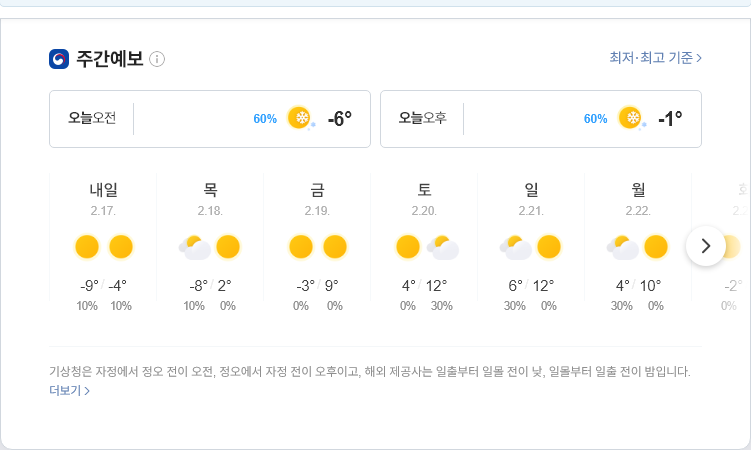
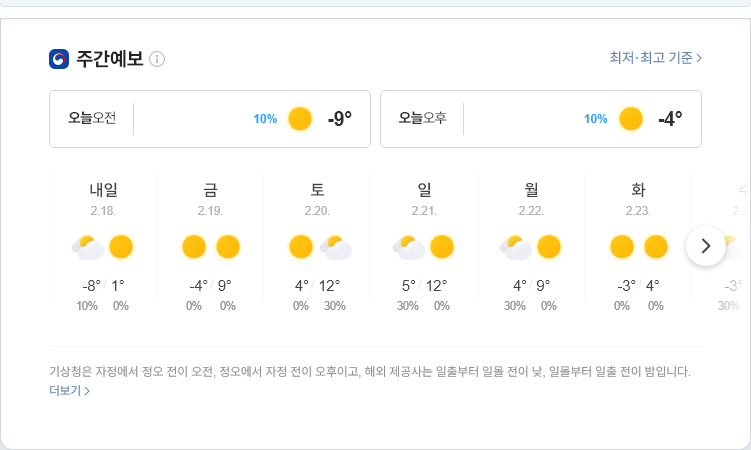
update result

diff --git a/README.md b/README.md
@@ -1,5 +1,5 @@
-##  2021-02-16 16:02:47   화요일 
-##### 날씨   -   어제보다 1° 낮아요맑음  
+##  2021-02-17 05:54:33   수요일 
+##### 날씨   -   어제보다 2° 낮아요맑음  
 <center><img src="../img/naver_weather_week.png"></center>
 ----
 ----
@@ -13,17 +13,17 @@
 ##### 세계
 <table border="1" bordercolor="blue" align = "center" >
 <tr align = "right" > <td>Item</td><td>Point</td><td>Diff</td><td>Rate</td><td>Buy</td><td>Sell</td><td>...</td>  </tr>
-<tr align = "right" > <td>DOW</td><td>31,458.4</td><td>27.7</td><td><font size="3" color="red" >0.09%</font></td><td><font size="3" color="black">0</font></td><td><font size="3" color="black">0</font></td><td>0</td>  </tr>
-<tr align = "right" > <td>NASDAQ</td><td>14,095.47</td><td>69.7</td><td><font size="3" color="red" >0.5%</font></td><td><font size="3" color="black">0</font></td><td><font size="3" color="black">0</font></td><td>0</td>  </tr>
-<tr align = "right" > <td>S&P</td><td>3,934.83</td><td>18.45</td><td><font size="3" color="red" >0.47%</font></td><td><font size="3" color="black">0</font></td><td><font size="3" color="black">0</font></td><td>0</td>  </tr>
+<tr align = "right" > <td>DOW</td><td>31,526.54</td><td>68.14</td><td><font size="3" color="red" >0.22%</font></td><td><font size="3" color="black">0</font></td><td><font size="3" color="black">0</font></td><td>0</td>  </tr>
+<tr align = "right" > <td>NASDAQ</td><td>14,052.24</td><td>-43.23</td><td><font size="3" color="blue" >-0.31%</font></td><td><font size="3" color="black">0</font></td><td><font size="3" color="black">0</font></td><td>0</td>  </tr>
+<tr align = "right" > <td>S&P</td><td>3,934.61</td><td>-0.22</td><td><font size="3" color="blue" >-0.01%</font></td><td><font size="3" color="black">0</font></td><td><font size="3" color="black">0</font></td><td>0</td>  </tr>
 <tr align = "right" > <td>SHANHAI</td><td>3,655.09</td><td>51.6</td><td><font size="3" color="red" >1.43%</font></td><td><font size="3" color="black">0</font></td><td><font size="3" color="black">0</font></td><td>0</td>  </tr>
-<tr align = "right" > <td>INDIA</td><td>52,230.48</td><td>76.35</td><td><font size="3" color="red" >0.15%</font></td><td><font size="3" color="black">0</font></td><td><font size="3" color="black">0</font></td><td>0</td>  </tr>
+<tr align = "right" > <td>INDIA</td><td>52,104.17</td><td>-49.96</td><td><font size="3" color="blue" >-0.1%</font></td><td><font size="3" color="black">0</font></td><td><font size="3" color="black">0</font></td><td>0</td>  </tr>
 </table>
 ----
 ##### 시장
 <table border="1" bordercolor="blue" align = "center" >
 <tr align = "right" > <td>Item</td><td>Price</td><td>Diff</td><td>Rate</td><td>Buy</td><td>Sell</td><td>...</td>  </tr>
-<tr align = "right" > <td>USD</td><td>1,101.0</td><td>-1.5</td><td><font size="3" color="blue">-0.14%</font></td><td><font size="3" color="orangered">1,110</font></td><td><font size="3" color="black">0</font></td><td>0</td>  </tr>
+<tr align = "right" > <td>USD</td><td>1,102.0</td><td>-0.5</td><td><font size="3" color="blue">-0.05%</font></td><td><font size="3" color="orangered">1,110</font></td><td><font size="3" color="black">0</font></td><td>0</td>  </tr>
 <tr align = "right" > <td>WTI</td><td>59.47</td><td>1.23</td><td><font size="3" color="red">2.11%</font></td><td><font size="3" color="black">29.0</font></td><td><font size="3" color="black">0</font></td><td>0</td>  </tr>
 <tr align = "right" > <td>GOLD</td><td>1,821.0</td><td>-3.3</td><td><font size="3" color="blue">-0.18%</font></td><td><font size="3" color="black">0</font></td><td><font size="3" color="black">0</font></td><td>0</td>  </tr>
 </table>
